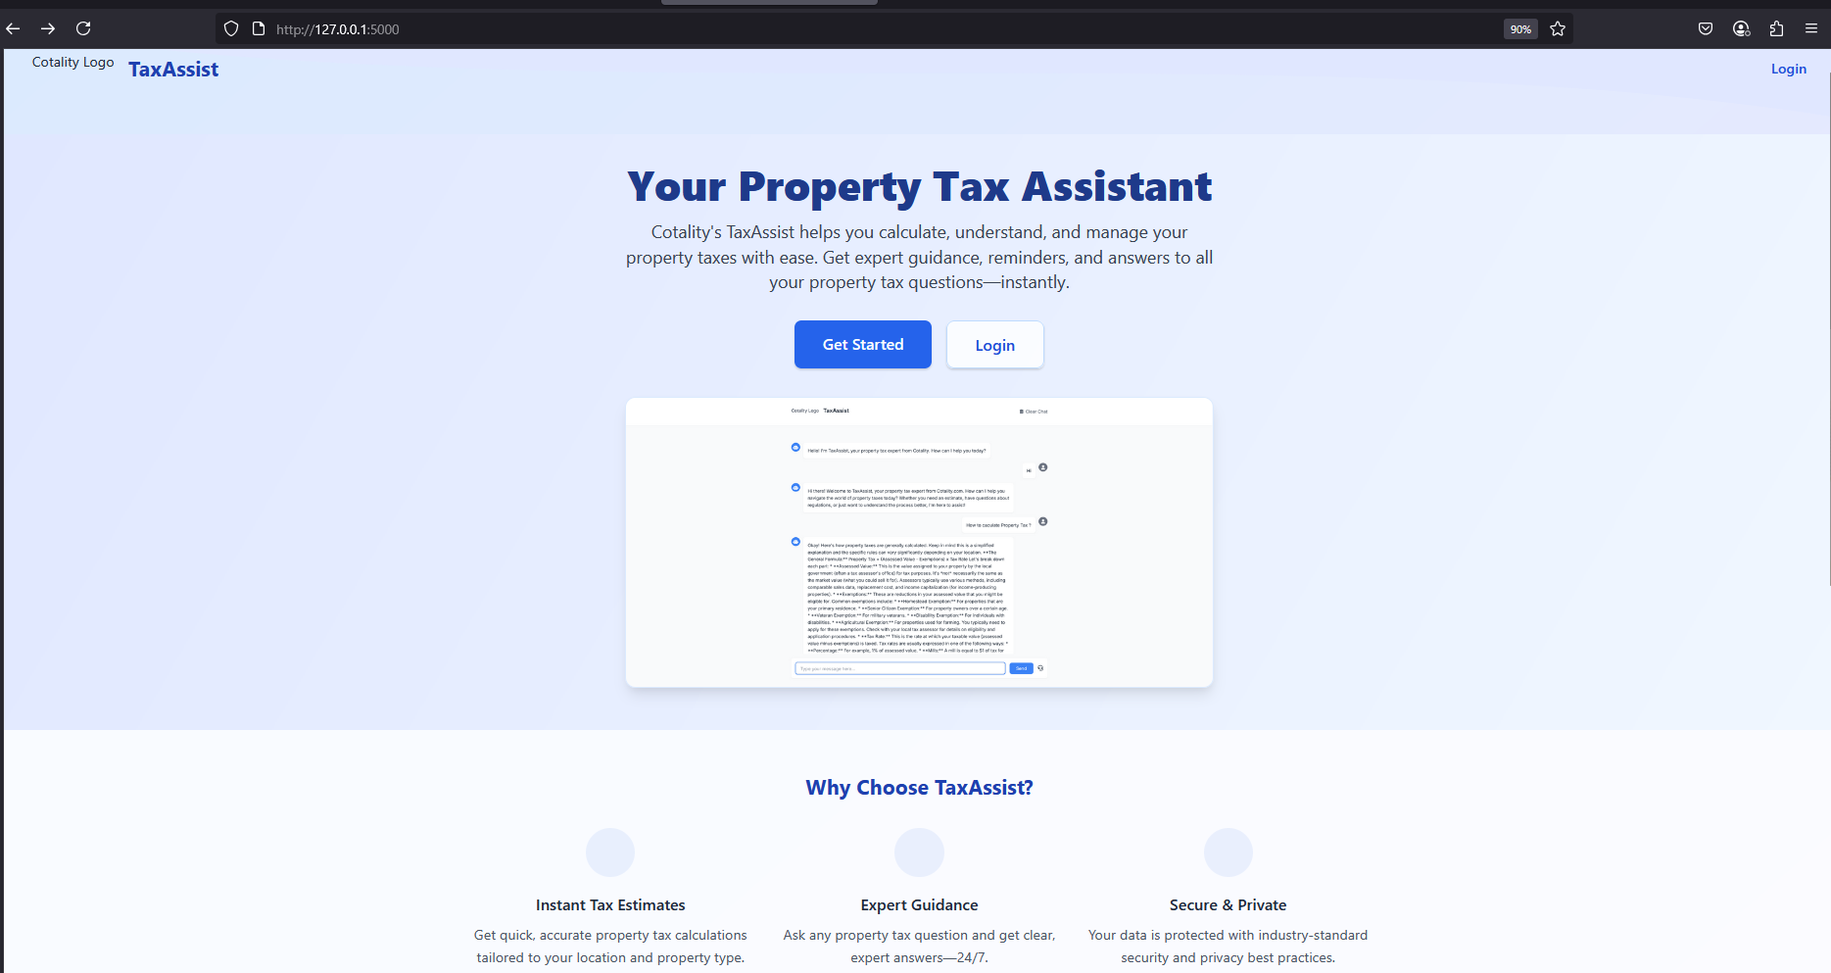
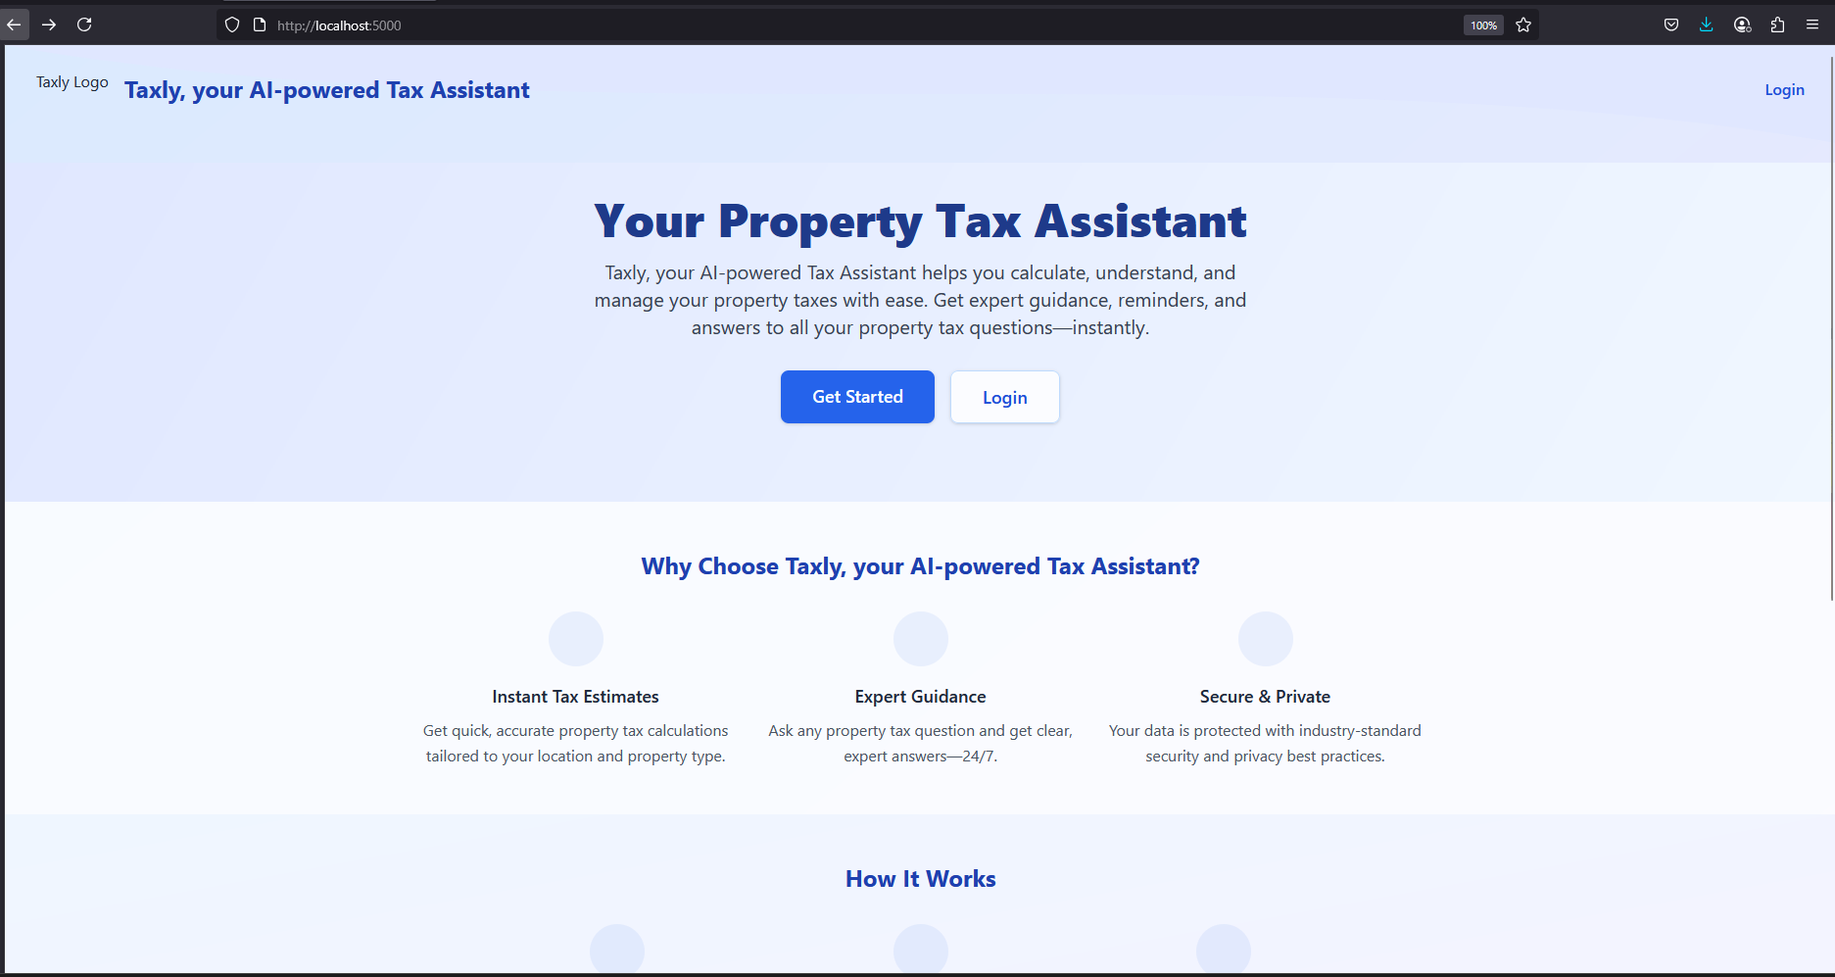
updated as taxly.com

diff --git a/templates/landing.html b/templates/landing.html
@@ -40,8 +40,8 @@
     <!-- Header -->
     <header class="py-6 px-8 flex items-center justify-between relative z-10">
         <div class="flex items-center">
-            <img src="{{ url_for('static', filename='images/logo.png') }}" alt="Cotality Logo" class="h-10">
-            <span class="ml-4 text-2xl font-bold text-blue-800">TaxAssist</span>
+            <img src="{{ url_for('static', filename='images/logo.png') }}" alt="Taxly Logo" class="h-10">
+            <span class="ml-4 text-2xl font-bold text-blue-800">Taxly, your AI-powered Tax Assistant</span>
         </div>
         <div>
             <a href="{{ url_for('auth.login') }}" class="text-blue-700 hover:underline font-semibold">Login</a>
@@ -50,17 +50,16 @@
     <!-- Hero Section -->
     <section class="hero-bg flex-1 flex flex-col items-center justify-center text-center px-4 pt-8 pb-12 relative z-10">
         <h1 class="text-4xl md:text-5xl font-extrabold text-blue-900 mb-4">Your Property Tax Assistant</h1>
-        <p class="text-lg md:text-xl text-gray-700 mb-8 max-w-2xl">Cotality's TaxAssist helps you calculate, understand, and manage your property taxes with ease. Get expert guidance, reminders, and answers to all your property tax questions—instantly.</p>
+        <p class="text-lg md:text-xl text-gray-700 mb-8 max-w-2xl">Taxly, your AI-powered Tax Assistant helps you calculate, understand, and manage your property taxes with ease. Get expert guidance, reminders, and answers to all your property tax questions—instantly.</p>
         <div class="flex flex-col md:flex-row gap-4 justify-center mb-8">
             <a href="{{ url_for('auth.register') }}" class="bg-blue-600 text-white px-8 py-3 rounded-lg text-lg font-semibold shadow hover:bg-blue-700 transition">Get Started</a>
             <a href="{{ url_for('auth.login') }}" class="bg-white bg-opacity-80 text-blue-700 px-8 py-3 rounded-lg text-lg font-semibold shadow hover:bg-blue-100 transition border border-blue-200">Login</a>
         </div>
-        <img src="{{ url_for('static', filename='images/ui-screenshot.png') }}" alt="App Screenshot" class="rounded-xl shadow-lg w-full max-w-2xl mx-auto border border-blue-100">
     </section>
     <!-- Features Section -->
     <section class="py-12 px-4 bg-white bg-opacity-80 relative z-10">
         <div class="max-w-5xl mx-auto">
-            <h2 class="text-2xl font-bold text-center text-blue-800 mb-8">Why Choose TaxAssist?</h2>
+            <h2 class="text-2xl font-bold text-center text-blue-800 mb-8">Why Choose Taxly, your AI-powered Tax Assistant?</h2>
             <div class="grid grid-cols-1 md:grid-cols-3 gap-8">
                 <div class="text-center">
                     <div class="feature-icon"><i class="fas fa-calculator"></i></div>
@@ -93,7 +92,7 @@
                 <div class="text-center">
                     <div class="feature-icon"><i class="fas fa-comments"></i></div>
                     <h3 class="font-semibold mb-2">2. Ask Anything</h3>
-                    <p class="text-gray-600">Chat with TaxAssist about your property tax needs.</p>
+                    <p class="text-gray-600">Chat with Taxly, your AI-powered Tax Assistant about your property tax needs.</p>
                 </div>
                 <div class="text-center">
                     <div class="feature-icon"><i class="fas fa-chart-line"></i></div>
@@ -109,7 +108,7 @@
             <h2 class="text-2xl font-bold text-center text-blue-800 mb-8">What Our Users Say</h2>
             <div class="grid grid-cols-1 md:grid-cols-2 gap-8">
                 <div class="bg-blue-50 rounded-lg p-6 shadow text-left">
-                    <p class="text-gray-700 italic mb-2">“TaxAssist made my property tax filing so much easier. The chatbot answered all my questions instantly!”</p>
+                    <p class="text-gray-700 italic mb-2">“Taxly, your AI-powered Tax Assistant made my property tax filing so much easier. The chatbot answered all my questions instantly!”</p>
                     <div class="flex items-center mt-4">
                         <div class="w-10 h-10 rounded-full bg-blue-200 flex items-center justify-center font-bold text-blue-800 mr-3">A</div>
                         <div>
@@ -119,7 +118,7 @@
                     </div>
                 </div>
                 <div class="bg-blue-50 rounded-lg p-6 shadow text-left">
-                    <p class="text-gray-700 italic mb-2">“I love how simple and secure TaxAssist is. Highly recommended for anyone with property tax questions.”</p>
+                    <p class="text-gray-700 italic mb-2">“I love how simple and secure Taxly, your AI-powered Tax Assistant is. Highly recommended for anyone with property tax questions.”</p>
                     <div class="flex items-center mt-4">
                         <div class="w-10 h-10 rounded-full bg-purple-200 flex items-center justify-center font-bold text-purple-800 mr-3">R</div>
                         <div>
@@ -133,7 +132,7 @@
     </section>
     <!-- Footer -->
     <footer class="py-6 text-center text-gray-500 text-sm bg-white bg-opacity-80 relative z-10">
-        &copy; {{ year }} Cotality. All rights reserved. &bull; <a href="#" class="hover:underline">Privacy Policy</a> &bull; <a href="#" class="hover:underline">Contact</a>
+        &copy; {{ year }} Taxly. All rights reserved. &bull; <a href="#" class="hover:underline">Privacy Policy</a> &bull; <a href="#" class="hover:underline">Contact</a>
     </footer>
 </body>
 </html> 

diff --git a/templates/index.html b/templates/index.html
@@ -3,7 +3,7 @@
 <head>
     <meta charset="UTF-8">
     <meta name="viewport" content="width=device-width, initial-scale=1.0">
-    <title>TaxAssist - Cotality Property Tax Assistant</title>
+    <title>Taxly, your AI-powered Tax Assistant - Taxly Property Tax Assistant</title>
     <link href="https://cdn.jsdelivr.net/npm/tailwindcss@2.2.19/dist/tailwind.min.css" rel="stylesheet">
     <link href="https://cdnjs.cloudflare.com/ajax/libs/font-awesome/6.0.0/css/all.min.css" rel="stylesheet">
     <link href="https://fonts.googleapis.com/css2?family=Inter:wght@400;500;600&display=swap" rel="stylesheet">
@@ -119,8 +119,8 @@
     <header class="bg-white shadow-sm">
         <div class="container mx-auto px-4 py-4 flex items-center justify-between">
             <div class="flex items-center">
-                <img src="{{ url_for('static', filename='images/logo.png') }}" alt="Cotality Logo" class="h-8">
-                <h1 class="ml-4 text-xl font-semibold text-gray-800">TaxAssist</h1>
+                <img src="{{ url_for('static', filename='images/logo.png') }}" alt="Taxly Logo" class="h-8">
+                <h1 class="ml-4 text-xl font-semibold text-gray-800">Taxly, your AI-powered Tax Assistant</h1>
             </div>
             <div class="flex items-center space-x-4">
                 <div class="font-size-controls" aria-label="Font size controls">

diff --git a/templates/login.html b/templates/login.html
@@ -9,7 +9,7 @@
 </head>
 <body class="bg-gradient-to-br from-blue-100 to-purple-100 min-h-screen flex items-center justify-center">
     <div class="bg-white bg-opacity-80 rounded-xl shadow-lg p-8 w-full max-w-md">
-        <h2 class="text-2xl font-bold mb-6 text-center text-blue-700">Sign In to TaxAssist</h2>
+        <h2 class="text-2xl font-bold mb-6 text-center text-blue-700">Sign In to Taxly, your AI-powered Tax Assistant</h2>
         <form method="POST" action="">
             <div class="mb-4">
                 <label class="block text-gray-700 mb-2" for="username">Username</label>
@@ -21,7 +21,7 @@
             </div>
             <button class="w-full bg-blue-600 text-white py-2 rounded-lg hover:bg-blue-700 transition" type="submit">Login</button>
         </form>
-        <p class="mt-4 text-center text-gray-600">Don't have an account? <a href="{{ url_for('auth.register') }}" class="text-blue-600 hover:underline">Register</a></p>
+        <p class="mt-4 text-center text-gray-600">Don't have an account? <a href="{{ url_for('auth.register') }}" class="text-blue-600 hover:underline">Register</a> for Taxly, your AI-powered Tax Assistant</p>
     </div>
 </body>
 </html> 

diff --git a/static/js/chat.js b/static/js/chat.js
@@ -126,7 +126,7 @@ document.addEventListener('DOMContentLoaded', () => {
     });
 
     escalateButton.addEventListener('click', () => {
-        window.location.href = 'mailto:supportUK@cotality.com?subject=TaxAssist%20Escalation';
+        window.location.href = 'mailto:supportUK@taxly.com?subject=TaxAssist%20Escalation';
     });
 
     // Auto-resize textarea

diff --git a/src/routes/main.py b/src/routes/main.py
@@ -14,8 +14,8 @@ if not GEMINI_API_KEY:
 genai.configure(api_key=GEMINI_API_KEY)
 model = genai.GenerativeModel('gemini-2.0-flash')
 
-# System prompt for TaxAssist
-SYSTEM_PROMPT = """You are TaxAssist, Cotality.com's expert property tax chatbot. \
+# System prompt for Taxly, your AI-powered Tax Assistant
+SYSTEM_PROMPT = """You are Taxly, your AI-powered Tax Assistant, Taxly.com's expert property tax chatbot. \
 You provide accurate, friendly, and concise responses about property taxes. \
 Focus on property tax calculations, regulations, and guidance.\
 Always maintain a professional yet approachable tone.\
@@ -27,7 +27,7 @@ Your capabilities include:\
 4. Tax compliance checks and deadlines\
 5. Updates on tax-related news and legislative changes\
 \
-When providing estimates, use typical property tax rates and indicate they are based on Cotality's insights."""
+When providing estimates, use typical property tax rates and indicate they are based on Taxly's insights."""
 
 def starts_with_greeting(text):
     greetings = [
@@ -58,7 +58,7 @@ def chat():
 
         if any(trigger in user_message for trigger in capabilities_triggers):
             formatted_response = (
-                "<b>Here are my capabilities as TaxAssist:</b><br><br>"
+                "<b>Here are my capabilities as Taxly, your AI-powered Tax Assistant:</b><br><br>"
                 "<ul>"
                 "<li>Calculating property tax estimates</li>"
                 "<li>Explaining tax laws and regulations</li>"
@@ -81,7 +81,7 @@ def chat():
                     )
                 else:
                     formatted_response = (
-                        "<b>Hello! I'm TaxAssist, your property tax expert from Cotality.com. How can I help you today?</b><br><br>"
+                        "<b>Hello! I'm Taxly, your AI-powered Tax Assistant from Taxly.com. How can I help you today?</b><br><br>"
                         f"{llm_html}<br><br>"
                         "Just let me know how I can assist you further!"
                     )
@@ -113,7 +113,7 @@ def tax_estimate():
         response = model.generate_content(prompt)
         llm_html = markdown2.markdown(response.text.strip())
         formatted_response = (
-            "<b>Hello! I'm TaxAssist from Cotality.com. Here's your property tax estimate:</b><br><br>"
+            "<b>Hello! I'm Taxly, your AI-powered Tax Assistant from Taxly.com. Here's your property tax estimate:</b><br><br>"
             f"{llm_html}<br><br>"
             "Need a detailed breakdown or help with filing? Let me know!"
         )

diff --git a/requirement.md b/requirement.md
@@ -1,7 +1,7 @@
-# TaxAssist Chatbot Prompt for Cotality.com
+# Taxly, your AI-powered Tax Assistant Chatbot Prompt for Taxly.com
 
 ## Objective
-Develop an independent chatbot named **TaxAssist** for [cotality.com](https://cotality.com)'s tax team to efficiently handle property-related tax queries. The chatbot uses the Gemini API (gemini-2.0-flash) with the API key `YOUR_GEMINI_API_KEY` for generating responses. It serves internal users (tax team members) and external users (clients or partners) by providing accurate, timely, and user-friendly responses, referencing Cotality’s property data systems for real-time tax information. The chatbot incorporates real-world use cases, advanced features, and a modern, Cotality-branded user interface.
+Develop an independent chatbot named **Taxly, your AI-powered Tax Assistant** for [taxly.com](https://taxly.com)'s tax team to efficiently handle property-related tax queries. The chatbot uses the Gemini API (gemini-2.0-flash) with the API key `YOUR_GEMINI_API_KEY` for generating responses. It serves internal users (tax team members) and external users (clients or partners) by providing accurate, timely, and user-friendly responses, referencing Taxly’s property data systems for real-time tax information. The chatbot incorporates real-world use cases, advanced features, and a modern, Taxly-branded user interface.
 
 ## Key Requirements
 
@@ -10,49 +10,49 @@ Handle a wide range of property-related tax queries, including:
 - Answering questions about property tax calculations, factors, and regional variations.
 - Providing estimates for property taxes based on user inputs (e.g., location, value, type).
 - Offering information on tax laws, regulations, and recent changes affecting property owners or businesses.
-- Guiding users through filing property tax returns or other tax-related forms, including step-by-step instructions or links to Cotality resources.
+- Guiding users through filing property tax returns or other tax-related forms, including step-by-step instructions or links to Taxly resources.
 - Assisting with compliance checks, ensuring users are aware of tax obligations and deadlines.
 - Providing real-time updates on tax-related news or legislative changes impacting property taxes.
 
 ### API Integration
 - Use the Gemini API (`https://generativelanguage.googleapis.com/v1beta/models/gemini-2.0-flash:generateContent`) with the provided API key (`YOUR_GEMINI_API_KEY`) for conversational responses.
-- Structure API requests with a system prompt configuring the chatbot as TaxAssist, an expert in property taxes for Cotality, ensuring concise, friendly, and relevant responses.
+- Structure API requests with a system prompt configuring the chatbot as TaxAssist, an expert in property taxes for Taxly, ensuring concise, friendly, and relevant responses.
 - Handle API errors gracefully, displaying user-friendly messages (e.g., “Oops, something went wrong! Please try again.”).
 
 ### Cotality Data Reference
-- Reference Cotality’s property data systems for accurate tax information (e.g., tax rates, exemptions, regional data). Use mock data or publicly available Cotality resources (e.g., [Cotality Insights](https://cotality.com)) as placeholders, simulating real-time integration.
-- Example: For “Tax rate for Irvine, CA,” respond with an estimated rate (e.g., 1%) sourced from Cotality’s insights.
-- Prepare for future integration with Cotality’s API or database for real-time data retrieval.
+- Reference Taxly’s property data systems for accurate tax information (e.g., tax rates, exemptions, regional data). Use mock data or publicly available Taxly resources (e.g., [Taxly Insights](https://taxly.com)) as placeholders, simulating real-time integration.
+- Example: For “Tax rate for Irvine, CA,” respond with an estimated rate (e.g., 1%) sourced from Taxly’s insights.
+- Prepare for future integration with Taxly’s API or database for real-time data retrieval.
 
 ### Real-World Use Cases
 - **Property Tax Estimation**: A user inputs property details (e.g., $500,000 home in Irvine, CA), and TaxAssist estimates annual tax based on current rates.
-- **Tax Law Updates**: A client asks about recent tax law changes, and TaxAssist summarizes updates with links to Cotality resources.
+- **Tax Law Updates**: A client asks about recent tax law changes, and TaxAssist summarizes updates with links to Taxly resources.
 - **Filing Assistance**: A user seeks help filing a tax return, and TaxAssist provides step-by-step guidance or links to forms.
 - **Deadline Reminders**: TaxAssist proactively reminds users of upcoming tax deadlines (e.g., April 15, 2025).
 - **Internal Team Support**: A tax team member queries regional tax rates, and TaxAssist delivers quick, accurate data.
 
 ### Features
 - **Natural Language Processing (NLP)**: Leverages Gemini API’s NLP capabilities to understand varied query phrasings.
-- **Database Integration (Mock)**: Simulates connection to Cotality’s property data for tax calculations, using mock data until real API access is provided.
-- **Multi-Language Support**: Supports English, with placeholders for additional languages (e.g., Spanish, German) to reflect Cotality’s global operations.
+- **Database Integration (Mock)**: Simulates connection to Taxly’s property data for tax calculations, using mock data until real API access is provided.
+- **Multi-Language Support**: Supports English, with placeholders for additional languages (e.g., Spanish, German) to reflect Taxly’s global operations.
 - **Secure Data Handling**: Ensures user inputs are processed securely, with no storage of sensitive data, complying with GDPR and CCPA.
-- **Escalation to Human Agents**: Includes a button or command (e.g., “Talk to a human”) to escalate complex queries to Cotality’s support (e.g., [supportUK@cotality.com](mailto:supportUK@cotality.com) or 0333 123 1417 for UK).
+- **Escalation to Human Agents**: Includes a button or command (e.g., “Talk to a human”) to escalate complex queries to Taxly’s support (e.g., [supportUK@taxly.com](mailto:supportUK@taxly.com) or 0333 123 1417 for UK).
 - **Message History Toggle**: Allows users to show/hide chat history for privacy or clarity.
 - **Clear Chat Button**: Resets the chat session, retaining only the welcome message.
-- **Visual Data Support**: Displays tax trends or estimates as text-based tables (e.g., historical rates) or links to Cotality visualizations.
+- **Visual Data Support**: Displays tax trends or estimates as text-based tables (e.g., historical rates) or links to Taxly visualizations.
 - **Conversational Tone**: Maintains a friendly, professional tone (e.g., “Happy to help with your tax query!”).
 - **24/7 Availability**: Accessible anytime via a web interface.
 - **Typing Animation**: Shows a typing indicator for a natural conversation flow.
 
 ### User Interface
-- **Branding**: Uses a Cotality-branded light theme with colors inspired by their website (e.g., blue, white, gray).
+- **Branding**: Uses a Taxly-branded light theme with colors inspired by their website (e.g., blue, white, gray).
 - **Typography**: Uses “Amazon Ember” or a similar professional font (fallback to Arial).
-- **Layout**: Includes a header with Cotality’s logo, a scrollable chatbox, and an input area with send/escalation buttons.
+- **Layout**: Includes a header with Taxly’s logo, a scrollable chatbox, and an input area with send/escalation buttons.
 - **Responsiveness**: Mobile-friendly with stacked layouts on smaller screens.
 - **Accessibility**: Includes ARIA labels and high-contrast focus states.
 
 ### Name
-The chatbot is named **TaxAssist**, reflecting its tax expertise and alignment with Cotality’s property focus.
+The chatbot is named **Taxly, your AI-powered Tax Assistant**, reflecting its tax expertise and alignment with Taxly’s property focus.
 
 ## Implementation
 - **Platform**: A Flask-based web application with a single-page interface (`index.html`).
@@ -60,19 +60,17 @@ The chatbot is named **TaxAssist**, reflecting its tax expertise and alignment w
 - **Gemini API Call**: Sends user queries to the Gemini API with a system prompt, processes responses, and formats them for display.
 
 ## Additional Considerations
-- **Scalability**: Handles increasing query volumes as Cotality grows.
+- **Scalability**: Handles increasing query volumes as Taxly grows.
 - **Security**: Avoids storing sensitive data client-side; uses HTTPS for API calls.
 - **Testing**: Validates API key functionality and response accuracy with mock tax queries.
-- **Future Enhancements**: Integrate Cotality’s real API for data access, add voice input, or support additional languages.
+- **Future Enhancements**: Integrate Taxly’s real API for data access, add voice input, or support additional languages.
 
 ## Sample Interaction
 **User**: “What’s the property tax for a $750,000 condo in Toronto?”  
-**TaxAssist**: “Based on Cotality’s data, the estimated property tax for a $750,000 condo in Toronto is ~$4,500 (0.6% rate). Want a detailed breakdown or filing help?”  
+**Taxly, your AI-powered Tax Assistant**: “Based on Taxly’s data, the estimated property tax for a $750,000 condo in Toronto is ~$4,500 (0.6% rate). Want a detailed breakdown or filing help?”  
 
 **User**: “Any new tax laws in Ontario?”  
-**TaxAssist “
-
-**: “In 2025, Ontario introduced a first-time buyer tax credit, saving up to $4,000. Check details at [Cotality Insights](https://cotality.com). Need assistance applying it?”
+**Taxly, your AI-powered Tax Assistant**: “In 2025, Ontario introduced a first-time buyer tax credit, saving up to $4,000. Check details at [Taxly Insights](https://taxly.com). Need assistance applying it?”
 
 ## Conclusion
-TaxAssist will streamline Cotality’s tax team operations by automating property tax queries using the Gemini API and referencing Cotality’s data. Its advanced features, real-world use cases, and Cotality-branded interface will enhance efficiency and user satisfaction, aligning with Cotality’s mission of delivering actionable property insights.
+TaxAssist will streamline Taxly’s tax team operations by automating property tax queries using the Gemini API and referencing Taxly’s data. Its advanced features, real-world use cases, and Taxly-branded interface will enhance efficiency and user satisfaction, aligning with Taxly’s mission of delivering actionable property insights.

diff --git a/readme.md b/readme.md
@@ -1,6 +1,6 @@
-# TaxAssist - Cotality Property Tax Chatbot
+# Taxly, your AI-powered Tax Assistant - Taxly Property Tax Chatbot
 
-TaxAssist is an intelligent chatbot designed to handle property-related tax queries for Cotality.com. It uses the Gemini API to provide accurate, timely, and user-friendly responses about property taxes, calculations, regulations, and guidance.
+Taxly, your AI-powered Tax Assistant is an intelligent chatbot designed to handle property-related tax queries for Taxly.com. It uses the Gemini API to provide accurate, timely, and user-friendly responses about property taxes, calculations, regulations, and guidance.
 
 ## Features
 
@@ -67,7 +67,7 @@ The application will be available at `http://localhost:5000`
 2. Register a new account or log in
 3. Access the chatbot via the "Get Started" or "Login" button
 4. Type your property tax-related question in the chat input
-5. Receive instant, formatted responses from TaxAssist
+5. Receive instant, formatted responses from Taxly, your AI-powered Tax Assistant
 6. Use the "Clear Chat" button to start a new conversation
 7. Click the headset icon to escalate to human support if needed
 
@@ -86,12 +86,12 @@ The application will be available at `http://localhost:5000`
 ## Support
 
 For support inquiries, contact:
-- Email: supportUK@cotality.com
+- Email: supportUK@taxly.com
 - Phone (UK): 0333 123 1417
 
 ## License
 
-Copyright © 2024 Cotality.com. All rights reserved.
+Copyright © 2024 Taxly.com. All rights reserved.
 
 ## Application Screenshots
 
